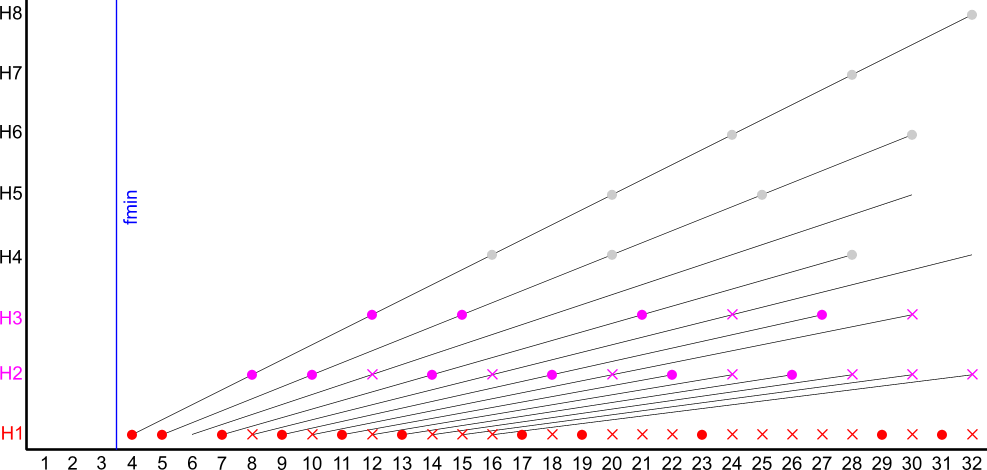
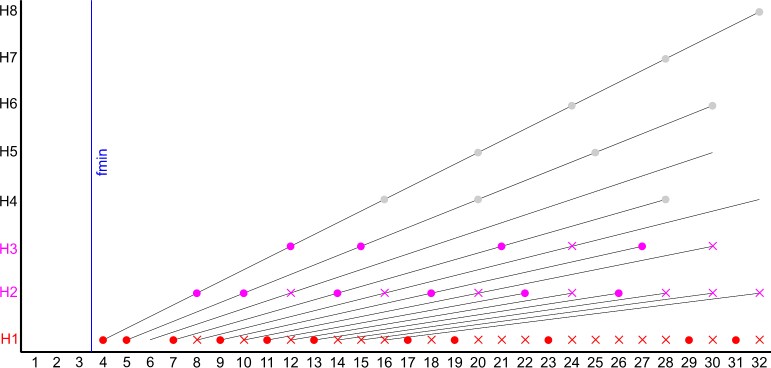
harmonics
git-svn-id: svn://hadron/analyze/TRUNC@42 274c16de-cc09-0410-b96d-e1f57eec0c85

diff --git a/doc/noise.html b/doc/noise.html
@@ -159,7 +159,41 @@ the amplitude of the DC component gets singular.<br>
 </blockquote>
 <h3><a name="harmonics"></a>Dealing with harmonics</h3>
 <blockquote>
-xdx
+  <p>The harmonics option exculdes frequencies from the resulting
+spectrum<br>
+  </p>
+  <ul>
+    <li>if the current frequency is a harmonic of another used
+frequency or<br>
+    </li>
+    <li>if one of the first <var>n</var> harmonics of the current
+frequency is a harmonic of another used frequency.</li>
+  </ul>
+  <p>Because of the second condition it is strongly recommended to set
+the minimum frequency at least higher than the <var>n</var>th harmonic
+of the ground frequency of the generated pattern. Otherwise a large gap
+would occur after the first used frequency.<br>
+  </p>
+  <img style="width: 771px; height: 368px;" alt="" src="images/64H3.png"><br>
+  <p>The graph shows the generated frequencies for a 64 sample noise
+pattern with 3 harmonics and a minimum frequency of 4:<br>
+  <samp>noise fsamp64 fmin3 fmax32 harm3 wdnoise.dat</samp></p>
+  <ul>
+    <li>Frequency 4 is the first after fmin. This is always used.</li>
+    <li>Frequency 6 has a collision at its 2nd harmonic with the 3rd
+harmonic of frequency 4 at frequency 12 and therefore cannot be used.</li>
+    <li>Frequency 5 has also a collision at its 4th harmonic with the
+5th harmonic of frequency 4, but both are beyond the maximum harmonic
+to analye (3) and so this does not care.</li>
+    <li>Frequency 8 has a direct collision with the 2nd harmonic of
+frequency 4 and must not be used.</li>
+    <li>Frequency 16 has a direct collision with the 4th harmonic of
+frequency 4. Although this harmonic is not analyzed it might get
+energy, so it is not used either.</li>
+  </ul>
+In effect the noise pattern contains only energy at the frequencies
+with red circles. While all the frequencies with red or pink circles
+are used for analysis.<br>
 </blockquote>
 <h2><a name="format"></a>File formats</h2>
 <h3><a name="design_dat"></a><tt>design.dat</tt> - design coefficients</h3>
